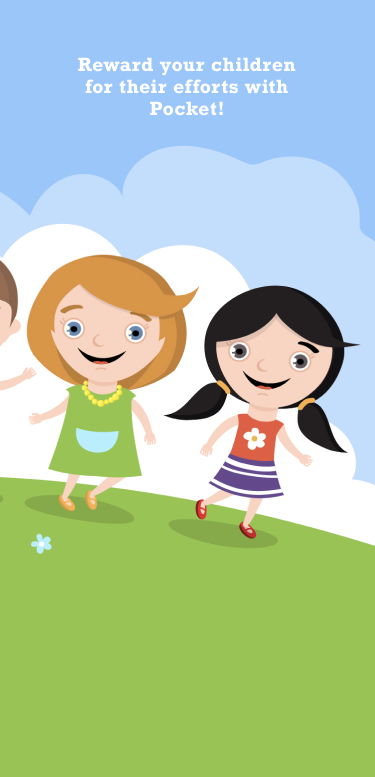
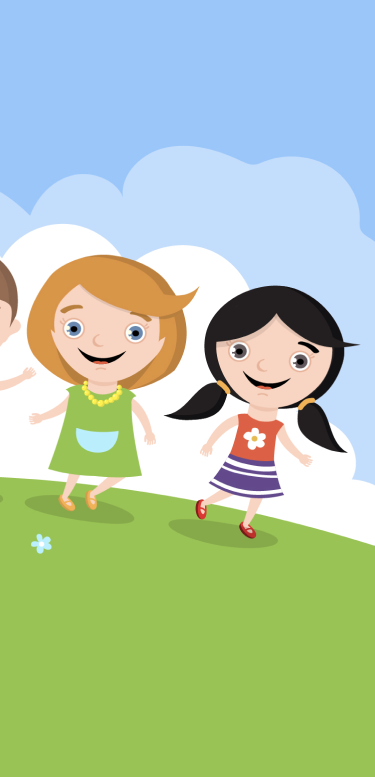
changed the title of the app

Changed region(s): [[0.2053, 0.0618, 0.792, 0.1544]]

diff --git a/app/assets/stylesheets/pages/_home.scss b/app/assets/stylesheets/pages/_home.scss
@@ -9,11 +9,11 @@ height: 100vh;
 background-position: center;
 display: flex;
 p{
-  color: #0B3BAE;
+  color: white;
   padding: 20px;
-  text-align: right;
+  text-align: center;
   font-size: 20px;
   font-weight: bold;
-  margin-top: 50px;
+  margin-top: 65px;
   }
 }

diff --git a/app/assets/stylesheets/components/_navbar.scss b/app/assets/stylesheets/components/_navbar.scss
@@ -56,4 +56,5 @@
   display:flex;
   justify-content:center;
   align-items:center;
+  font-size: 20px;
 }
